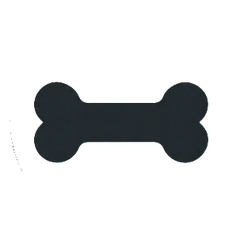
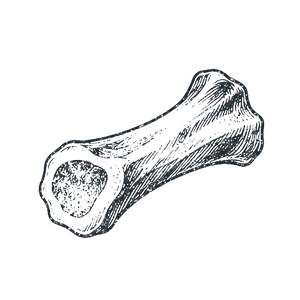
Dessins refaits avec ChatGPT
- Planche de découpe : bœuf gravé (style planche de boucher), zones recalées
- Stickers v2 : gravures, double filet, hachures à la main
- Pictos races et cuisson, traces de bottes

Claude-Session: https://claude.ai/code/session_0152vrq4n7nohigUcogz98yy

Changed region(s): [[0.1167, 0.2042, 0.9042, 0.8167]]

diff --git a/index.html b/index.html
@@ -230,14 +230,11 @@
   </header>
 
   <div class="cut__board">
-    <svg class="cow" id="cow" viewBox="70 50 500 285" role="group" aria-label="Schéma de découpe du bœuf">
-      <defs><clipPath id="cowClip"><path d="M210 70 Q330 64 450 72 L472 66 L520 76 Q536 82 540 96 L544 122 Q546 170 528 206 L522 250 L522 320 L500 320 L500 262 L490 232 L470 208 Q456 220 436 224 Q380 238 300 238 L254 234 L240 252 L236 320 L212 320 L210 258 L204 236 L188 214 Q172 198 166 186 L152 162 L130 170 L104 180 Q90 182 86 170 L86 152 L102 122 L116 104 L132 96 L160 92 Z"/></clipPath></defs>
-      <path class="cow__far" d="M262 230 L282 230 L280 316 L262 316 Z M466 206 L486 228 L488 316 L470 316 L470 262 Z"/>
-      <path class="cow__part cow__tail" data-cut="queue" tabindex="0" d="M520 78 Q548 92 552 150 L554 226 L546 248 L562 248 L560 226 L558 148 Q552 88 524 74 Z"/>
-      <g clip-path="url(#cowClip)" id="cowCuts"><path class="cow__part" data-cut="joue" tabindex="0" d="M0 0 L154 0 L154 200 L0 200 Z"/><path class="cow__part" data-cut="collier" tabindex="0" d="M154 0 L214 0 L208 178 L176 200 L154 172 Z"/><path class="cow__part" data-cut="basses" tabindex="0" d="M214 0 L276 0 L276 150 L210 150 Z"/><path class="cow__part" data-cut="cote" tabindex="0" d="M276 0 L336 0 L336 150 L276 150 Z"/><path class="cow__part" data-cut="fauxfilet" tabindex="0" d="M336 0 L430 0 L430 112 L336 112 Z"/><path class="cow__part" data-cut="filet" tabindex="0" d="M336 112 L430 112 L430 150 L336 150 Z"/><path class="cow__part" data-cut="rumsteck" tabindex="0" d="M430 0 L484 0 L484 156 L430 150 Z"/><path class="cow__part" data-cut="cuisse" tabindex="0" d="M484 0 L600 0 L600 250 L524 250 L472 208 L470 168 L484 156 Z"/><path class="cow__part" data-cut="paleron" tabindex="0" d="M210 150 L276 150 L276 250 L236 250 L208 178 Z"/><path class="cow__part" data-cut="poitrine" tabindex="0" d="M154 172 L176 200 L208 178 L236 250 L200 252 L150 230 Z"/><path class="cow__part" data-cut="platcotes" tabindex="0" d="M276 150 L372 150 L372 250 L276 250 Z"/><path class="cow__part" data-cut="bavette" tabindex="0" d="M372 150 L430 150 L484 156 L470 168 L472 208 L440 250 L372 250 Z"/><path class="cow__part" data-cut="jarret" tabindex="0" d="M190 250 L250 250 L250 340 L190 340 Z M472 208 L524 250 L530 340 L480 340 Z"/></g>
-      <path class="cow__outline" d="M210 70 Q330 64 450 72 L472 66 L520 76 Q536 82 540 96 L544 122 Q546 170 528 206 L522 250 L522 320 L500 320 L500 262 L490 232 L470 208 Q456 220 436 224 Q380 238 300 238 L254 234 L240 252 L236 320 L212 320 L210 258 L204 236 L188 214 Q172 198 166 186 L152 162 L130 170 L104 180 Q90 182 86 170 L86 152 L102 122 L116 104 L132 96 L160 92 Z"/>
-      <path class="cow__ink" d="M128 100 Q110 92 108 74 Q118 84 136 96 Z M146 100 L174 98 L156 114 Z"/>
-      <circle cx="112" cy="128" r="3.5" class="cow__eye"/>
+    <svg class="cow" id="cow" viewBox="0 0 1408 938" role="group" aria-label="Planche de découpe du bœuf">
+      <defs><clipPath id="cowClip"><path d="M108 41 L95 64 L92 77 L92 94 L99 114 L110 129 L110 137 L93 158 L86 171 L82 185 L82 202 L78 210 L58 235 L40 262 L24 276 L14 288 L12 293 L12 305 L15 312 L16 325 L24 336 L32 339 L41 348 L49 352 L62 356 L75 356 L88 352 L114 358 L130 372 L142 377 L153 379 L171 390 L179 392 L202 390 L210 392 L224 401 L231 408 L241 427 L262 452 L271 472 L276 498 L282 516 L293 535 L308 553 L318 576 L330 590 L351 602 L363 614 L375 660 L374 703 L378 719 L387 737 L388 770 L384 794 L376 816 L374 834 L369 843 L361 852 L357 864 L340 889 L340 895 L357 900 L393 900 L408 897 L419 899 L426 908 L426 916 L428 918 L447 923 L489 922 L504 919 L511 914 L520 897 L518 872 L525 863 L531 862 L534 859 L536 853 L525 793 L524 769 L527 741 L529 733 L541 709 L543 685 L555 656 L560 631 L568 621 L609 604 L643 597 L726 598 L739 600 L795 602 L852 609 L895 609 L930 600 L979 581 L1017 568 L1035 564 L1043 566 L1049 572 L1058 594 L1068 630 L1088 668 L1089 686 L1098 718 L1099 734 L1094 772 L1087 797 L1076 822 L1073 838 L1056 860 L1052 872 L1034 898 L1034 902 L1048 907 L1060 908 L1099 907 L1109 905 L1122 886 L1122 869 L1124 865 L1129 860 L1140 857 L1144 851 L1146 809 L1157 761 L1166 734 L1176 714 L1183 694 L1188 689 L1196 687 L1204 689 L1210 695 L1219 714 L1233 735 L1242 767 L1245 791 L1245 812 L1241 834 L1242 851 L1238 861 L1228 876 L1227 885 L1209 918 L1213 921 L1232 925 L1279 923 L1293 918 L1303 898 L1303 892 L1299 882 L1299 873 L1306 864 L1315 862 L1318 859 L1320 852 L1318 841 L1315 836 L1315 825 L1310 808 L1306 780 L1305 734 L1307 713 L1314 704 L1322 702 L1330 704 L1335 709 L1337 713 L1337 726 L1339 733 L1354 757 L1354 767 L1352 772 L1364 757 L1365 751 L1373 740 L1377 731 L1379 704 L1383 694 L1389 687 L1393 673 L1395 621 L1387 598 L1387 550 L1383 538 L1383 531 L1379 523 L1379 517 L1371 496 L1366 472 L1365 440 L1367 422 L1367 386 L1358 321 L1348 285 L1336 254 L1325 232 L1309 207 L1286 183 L1267 171 L1251 164 L1233 159 L1210 157 L1195 159 L1146 159 L1099 166 L1048 169 L1023 173 L993 181 L943 191 L891 197 L836 199 L763 194 L655 175 L583 150 L552 143 L527 141 L515 138 L468 112 L434 102 L419 100 L383 101 L356 107 L316 121 L308 119 L301 110 L301 86 L299 78 L286 51 L264 28 L236 12 L229 12 L227 16 L251 44 L258 58 L262 74 L262 86 L259 92 L254 97 L246 99 L233 96 L222 91 L206 91 L187 85 L177 86 L168 92 L145 97 L134 95 L123 81 L121 64 L126 46 L141 23 L140 19 L135 19 L126 24Z"/></clipPath></defs>
+      <path class="cow__base" d="M108 41 L95 64 L92 77 L92 94 L99 114 L110 129 L110 137 L93 158 L86 171 L82 185 L82 202 L78 210 L58 235 L40 262 L24 276 L14 288 L12 293 L12 305 L15 312 L16 325 L24 336 L32 339 L41 348 L49 352 L62 356 L75 356 L88 352 L114 358 L130 372 L142 377 L153 379 L171 390 L179 392 L202 390 L210 392 L224 401 L231 408 L241 427 L262 452 L271 472 L276 498 L282 516 L293 535 L308 553 L318 576 L330 590 L351 602 L363 614 L375 660 L374 703 L378 719 L387 737 L388 770 L384 794 L376 816 L374 834 L369 843 L361 852 L357 864 L340 889 L340 895 L357 900 L393 900 L408 897 L419 899 L426 908 L426 916 L428 918 L447 923 L489 922 L504 919 L511 914 L520 897 L518 872 L525 863 L531 862 L534 859 L536 853 L525 793 L524 769 L527 741 L529 733 L541 709 L543 685 L555 656 L560 631 L568 621 L609 604 L643 597 L726 598 L739 600 L795 602 L852 609 L895 609 L930 600 L979 581 L1017 568 L1035 564 L1043 566 L1049 572 L1058 594 L1068 630 L1088 668 L1089 686 L1098 718 L1099 734 L1094 772 L1087 797 L1076 822 L1073 838 L1056 860 L1052 872 L1034 898 L1034 902 L1048 907 L1060 908 L1099 907 L1109 905 L1122 886 L1122 869 L1124 865 L1129 860 L1140 857 L1144 851 L1146 809 L1157 761 L1166 734 L1176 714 L1183 694 L1188 689 L1196 687 L1204 689 L1210 695 L1219 714 L1233 735 L1242 767 L1245 791 L1245 812 L1241 834 L1242 851 L1238 861 L1228 876 L1227 885 L1209 918 L1213 921 L1232 925 L1279 923 L1293 918 L1303 898 L1303 892 L1299 882 L1299 873 L1306 864 L1315 862 L1318 859 L1320 852 L1318 841 L1315 836 L1315 825 L1310 808 L1306 780 L1305 734 L1307 713 L1314 704 L1322 702 L1330 704 L1335 709 L1337 713 L1337 726 L1339 733 L1354 757 L1354 767 L1352 772 L1364 757 L1365 751 L1373 740 L1377 731 L1379 704 L1383 694 L1389 687 L1393 673 L1395 621 L1387 598 L1387 550 L1383 538 L1383 531 L1379 523 L1379 517 L1371 496 L1366 472 L1365 440 L1367 422 L1367 386 L1358 321 L1348 285 L1336 254 L1325 232 L1309 207 L1286 183 L1267 171 L1251 164 L1233 159 L1210 157 L1195 159 L1146 159 L1099 166 L1048 169 L1023 173 L993 181 L943 191 L891 197 L836 199 L763 194 L655 175 L583 150 L552 143 L527 141 L515 138 L468 112 L434 102 L419 100 L383 101 L356 107 L316 121 L308 119 L301 110 L301 86 L299 78 L286 51 L264 28 L236 12 L229 12 L227 16 L251 44 L258 58 L262 74 L262 86 L259 92 L254 97 L246 99 L233 96 L222 91 L206 91 L187 85 L177 86 L168 92 L145 97 L134 95 L123 81 L121 64 L126 46 L141 23 L140 19 L135 19 L126 24Z"/>
+      <g clip-path="url(#cowClip)" id="cowCuts"><path class="cow__part" data-cut="joue" tabindex="0" d="M0 0 L292 0 L304 190 L334 400 L0 460 Z"/><path class="cow__part" data-cut="collier" tabindex="0" d="M292 0 L462 0 L470 310 L422 362 L334 400 L304 190 Z"/><path class="cow__part" data-cut="basses" tabindex="0" d="M462 0 L602 0 L602 360 L470 310 Z"/><path class="cow__part" data-cut="cote" tabindex="0" d="M602 0 L742 0 L742 360 L602 360 Z"/><path class="cow__part" data-cut="fauxfilet" tabindex="0" d="M742 0 L932 0 L932 292 L742 292 Z"/><path class="cow__part" data-cut="filet" tabindex="0" d="M742 292 L932 292 L932 362 L742 360 Z"/><path class="cow__part" data-cut="rumsteck" tabindex="0" d="M932 0 L1072 0 L1070 372 L932 362 Z"/><path class="cow__part" data-cut="cuisse" tabindex="0" d="M1072 0 L1306 0 L1302 300 L1300 640 L1060 640 L1040 560 L1070 372 Z"/><path class="cow__part" data-cut="paleron" tabindex="0" d="M470 310 L602 360 L602 560 L520 604 L440 560 L422 362 Z"/><path class="cow__part" data-cut="poitrine" tabindex="0" d="M334 400 L422 362 L440 560 L520 604 L560 660 L330 660 L300 500 Z"/><path class="cow__part" data-cut="platcotes" tabindex="0" d="M602 360 L800 360 L800 640 L560 640 L520 604 L602 560 Z"/><path class="cow__part" data-cut="bavette" tabindex="0" d="M800 360 L932 362 L1070 372 L1040 560 L1060 640 L800 640 Z"/><path class="cow__part" data-cut="jarret" tabindex="0" d="M300 660 L560 660 L560 940 L300 940 Z M1040 640 L1300 640 L1300 940 L1040 940 Z"/><path class="cow__part" data-cut="queue" tabindex="0" d="M1306 0 L1410 0 L1410 940 L1300 940 L1300 640 L1302 300 Z"/></g>
+      <image class="cow__ink" href="img/boeuf-gravure.webp" x="0" y="0" width="1408" height="938" preserveAspectRatio="none"/>
       <g class="cow__nums" id="cowNums"></g>
     </svg>
 

diff --git a/js/site.js b/js/site.js
@@ -58,20 +58,20 @@
     mijoter: { t: 'Mijoter', i: '<path d="M4 10h16v6a4 4 0 0 1-4 4H8a4 4 0 0 1-4-4zM2 10h2M20 10h2M10 6c0-1 1-1 1-2M14 6c0-1 1-1 1-2"/>' }
   };
   const CUTS = [
-    { id: 'joue', n: 'Joue', at: [122, 140], m: ['mijoter'], d: 'Un muscle qui travaille beaucoup, riche en collagène : il devient fondant après une longue cuisson.', tip: 'En daube, au vin rouge, trois heures à feu doux.' },
-    { id: 'collier', n: 'Collier', at: [183, 126], m: ['mijoter'], d: 'Une viande gélatineuse et goûteuse, faite pour les plats qui mijotent.', tip: 'Le secret d’un bourguignon qui se tient.' },
-    { id: 'basses', n: 'Basses côtes', at: [244, 112], m: ['griller', 'mijoter'], d: 'Bien persillées, entre le collier et la côte. Généreuses en goût.', tip: 'En tranche épaisse sur le gril, ou braisées.' },
-    { id: 'cote', n: 'Côte & entrecôte', at: [306, 112], m: ['griller'], d: 'La pièce reine, avec ou sans os. Chez nous, elle s’affine en cave avant d’arriver en vitrine.', tip: 'Sortez-la une heure avant, saisissez fort, laissez reposer autant que la cuisson.' },
-    { id: 'fauxfilet', n: 'Faux-filet', at: [383, 92], m: ['griller', 'rotir'], d: 'Tendre, avec son liseré de gras qui nourrit la viande pendant la cuisson.', tip: 'Commencez par le gras, côté poêle, puis saignant.' },
-    { id: 'filet', n: 'Filet', at: [383, 132], m: ['griller', 'rotir'], d: 'Le morceau le plus tendre : tournedos, chateaubriand, rôti de fête.', tip: 'Cuisson courte : il ne pardonne pas l’excès.' },
-    { id: 'rumsteck', n: 'Rumsteck', at: [457, 112], m: ['griller', 'rotir'], d: 'Tendre et goûteux, il donne pavés, aiguillette et rôtis.', tip: 'Au couteau, c’est le meilleur tartare.' },
-    { id: 'cuisse', n: 'Tranche & gîte à la noix', at: [514, 160], m: ['rotir', 'griller'], d: 'Les muscles de la cuisse : maigres et réguliers, pour rôtis, steaks et carpaccio.', tip: 'Le rôti du dimanche, à trancher fin.' },
-    { id: 'paleron', n: 'Paleron & macreuse', at: [242, 200], m: ['mijoter'], d: 'L’épaule : le paleron et son nerf central qui fond, la macreuse moelleuse.', tip: 'En pot-au-feu, la gelée du nerf fait la sauce.' },
-    { id: 'poitrine', n: 'Poitrine', at: [192, 222], m: ['mijoter'], d: 'Entrelardée et savoureuse, elle donne du corps aux bouillons.', tip: 'Indispensable dans un pot-au-feu.' },
-    { id: 'platcotes', n: 'Plat de côtes', at: [324, 200], m: ['mijoter'], d: 'De la viande et du gras sur l’os, pour les cuissons longues.', tip: 'Préparé la veille, il est encore meilleur.' },
-    { id: 'bavette', n: 'Bavette & flanchet', at: [415, 198], m: ['griller', 'mijoter'], d: 'Fibres longues et goût prononcé. La bavette se saisit, le flanchet se mijote.', tip: 'Bavette saignante, échalotes fondues, rien de plus.' },
-    { id: 'jarret', n: 'Jarret', at: [221, 290], m: ['mijoter'], d: 'Le gîte : très gélatineux, il donne un bouillon riche et nappant.', tip: 'Pour un pot-au-feu qui nappe la cuillère.' },
-    { id: 'queue', n: 'Queue', at: [557, 196], m: ['mijoter'], d: 'Petite pièce, grand goût : longue cuisson, bouillon puissant.', tip: 'En parmentier de queue de bœuf.' }
+    { id: 'joue', n: 'Joue', at: [150, 262], m: ['mijoter'], d: 'Un muscle qui travaille beaucoup, riche en collagène : il devient fondant après une longue cuisson.', tip: 'En daube, au vin rouge, trois heures à feu doux.' },
+    { id: 'collier', n: 'Collier', at: [388, 262], m: ['mijoter'], d: 'Une viande gélatineuse et goûteuse, faite pour les plats qui mijotent.', tip: 'Le secret d’un bourguignon qui se tient.' },
+    { id: 'basses', n: 'Basses côtes', at: [532, 268], m: ['griller', 'mijoter'], d: 'Bien persillées, entre le collier et la côte. Généreuses en goût.', tip: 'En tranche épaisse sur le gril, ou braisées.' },
+    { id: 'cote', n: 'Côte & entrecôte', at: [672, 276], m: ['griller'], d: 'La pièce reine, avec ou sans os. Chez nous, elle s’affine en cave avant d’arriver en vitrine.', tip: 'Sortez-la une heure avant, saisissez fort, laissez reposer autant que la cuisson.' },
+    { id: 'fauxfilet', n: 'Faux-filet', at: [837, 252], m: ['griller', 'rotir'], d: 'Tendre, avec son liseré de gras qui nourrit la viande pendant la cuisson.', tip: 'Commencez par le gras, côté poêle, puis saignant.' },
+    { id: 'filet', n: 'Filet', at: [837, 328], m: ['griller', 'rotir'], d: 'Le morceau le plus tendre : tournedos, chateaubriand, rôti de fête.', tip: 'Cuisson courte : il ne pardonne pas l’excès.' },
+    { id: 'rumsteck', n: 'Rumsteck', at: [1000, 280], m: ['griller', 'rotir'], d: 'Tendre et goûteux, il donne pavés, aiguillette et rôtis.', tip: 'Au couteau, c’est le meilleur tartare.' },
+    { id: 'cuisse', n: 'Tranche & gîte à la noix', at: [1185, 420], m: ['rotir', 'griller'], d: 'Les muscles de la cuisse : maigres et réguliers, pour rôtis, steaks et carpaccio.', tip: 'Le rôti du dimanche, à trancher fin.' },
+    { id: 'paleron', n: 'Paleron & macreuse', at: [520, 460], m: ['mijoter'], d: 'L’épaule : le paleron et son nerf central qui fond, la macreuse moelleuse.', tip: 'En pot-au-feu, la gelée du nerf fait la sauce.' },
+    { id: 'poitrine', n: 'Poitrine', at: [392, 545], m: ['mijoter'], d: 'Entrelardée et savoureuse, elle donne du corps aux bouillons.', tip: 'Indispensable dans un pot-au-feu.' },
+    { id: 'platcotes', n: 'Plat de côtes', at: [690, 500], m: ['mijoter'], d: 'De la viande et du gras sur l’os, pour les cuissons longues.', tip: 'Préparé la veille, il est encore meilleur.' },
+    { id: 'bavette', n: 'Bavette & flanchet', at: [930, 505], m: ['griller', 'mijoter'], d: 'Fibres longues et goût prononcé. La bavette se saisit, le flanchet se mijote.', tip: 'Bavette saignante, échalotes fondues, rien de plus.' },
+    { id: 'jarret', n: 'Jarret', at: [455, 770], m: ['mijoter'], d: 'Le gîte : très gélatineux, il donne un bouillon riche et nappant.', tip: 'Pour un pot-au-feu qui nappe la cuillère.' },
+    { id: 'queue', n: 'Queue', at: [1352, 560], m: ['mijoter'], d: 'Petite pièce, grand goût : longue cuisson, bouillon puissant.', tip: 'En parmentier de queue de bœuf.' }
   ];
 
   const FEAST = [
@@ -387,7 +387,7 @@
     BREEDS.forEach((b, i) => {
       const li = document.createElement('article');
       li.className = 'breed'; li.dataset.i = i;
-      li.innerHTML = `<div class="breed__top"><span class="breed__kind"><svg viewBox="0 0 32 32" aria-hidden="true">${ICONS[b.k]}</svg>${b.kind}</span><span class="breed__idx">${String(i + 1).padStart(2, '0')}/${BREEDS.length}</span></div>
+      li.innerHTML = `<div class="breed__top"><span class="breed__kind"><i class="ico" style="-webkit-mask-image:url(img/ic-${b.k}.png);mask-image:url(img/ic-${b.k}.png)" aria-hidden="true"></i>${b.kind}</span><span class="breed__idx">${String(i + 1).padStart(2, '0')}/${BREEDS.length}</span></div>
         <h3>${b.name}</h3><p class="breed__where">${b.where}</p><p>${b.txt}</p>`;
       btrack.appendChild(li);
       const dot = document.createElement('button'); dot.type = 'button'; dot.setAttribute('aria-label', b.name); dotsEl.appendChild(dot);
@@ -471,7 +471,7 @@
     const nums = $('#cowNums'), chips = $('#cutChips'), tag = $('#cutTag');
     CUTS.forEach((c, i) => {
       const g = document.createElementNS(NS, 'g'); g.dataset.cut = c.id;
-      g.innerHTML = `<circle cx="${c.at[0]}" cy="${c.at[1]}" r="8.5"/><text x="${c.at[0]}" y="${c.at[1]}">${i + 1}</text>`;
+      g.innerHTML = `<circle cx="${c.at[0]}" cy="${c.at[1]}" r="35"/><text x="${c.at[0]}" y="${c.at[1]}">${i + 1}</text>`;
       nums.appendChild(g);
       const b = document.createElement('button');
       b.type = 'button'; b.className = 'chip'; b.setAttribute('role', 'tab'); b.dataset.cut = c.id;
@@ -495,7 +495,7 @@
       const fill = () => {
         $('[data-f="num"]', tag).textContent = `N° ${String(i + 1).padStart(2, '0')} — bœuf`;
         $('[data-f="name"]', tag).textContent = c.n;
-        $('[data-f="modes"]', tag).innerHTML = c.m.map(k => `<li><svg viewBox="0 0 24 24" aria-hidden="true">${MODES[k].i}</svg>${MODES[k].t}</li>`).join('');
+        $('[data-f="modes"]', tag).innerHTML = c.m.map(k => `<li><i class="ico" style="-webkit-mask-image:url(img/ic-${k}.png);mask-image:url(img/ic-${k}.png)" aria-hidden="true"></i>${MODES[k].t}</li>`).join('');
         $('[data-f="desc"]', tag).textContent = c.d;
         $('[data-f="tip"]', tag).textContent = c.tip;
       };
@@ -628,11 +628,9 @@
         const side = i % 2 ? 1 : -1;
         const x = 29 + side * 7 + Math.sin(y / 120) * 6;
         const a = 180 + Math.cos(y / 120) * 9 + side * 4;
-        const s = document.createElementNS(NS, 'svg');
-        s.setAttribute('class', 'boot'); s.setAttribute('viewBox', '0 0 40 100');
-        s.innerHTML = '<use href="#boot"/>';
+        const s = document.createElement('i');
+        s.className = 'boot'; s.style.setProperty('--sx', side > 0 ? -1 : 1);
         s.style.left = x + 'px'; s.style.top = y + 'px'; s.style.setProperty('--a', a + 'deg');
-        if (side > 0) s.style.transform = undefined;
         prints.appendChild(s); boots.push({ el: s, y });
       }
       paint();

diff --git a/css/site.css b/css/site.css
@@ -329,7 +329,7 @@ body:not(.is-open-site) .facade__copy>*{opacity:0;transform:translateY(18px)}
 .breed.on{opacity:1;transform:none}
 .breed__top{display:flex;align-items:center;justify-content:space-between;margin-bottom:12px}
 .breed__kind{display:flex;align-items:center;gap:8px;font-size:11px;letter-spacing:.2em;text-transform:uppercase;font-weight:500;color:var(--sage-ink)}
-.breed__kind svg{width:24px;height:24px;fill:none;stroke:var(--ink);stroke-width:1.5;stroke-linecap:round;stroke-linejoin:round}
+.ico{display:inline-block;flex:none;width:24px;height:24px;background:var(--ink);-webkit-mask-position:center;mask-position:center;-webkit-mask-size:contain;mask-size:contain;-webkit-mask-repeat:no-repeat;mask-repeat:no-repeat}
 .breed__idx{font-family:var(--mono);font-size:12px;color:var(--kraft-deep)}
 .breed h3{font-size:26px;letter-spacing:-.02em;line-height:1.05;margin-bottom:6px;font-weight:400}
 .breed__where{font-size:13px;letter-spacing:.04em;color:var(--kraft-deep);font-weight:500;margin-bottom:8px}
@@ -346,19 +346,16 @@ body:not(.is-open-site) .facade__copy>*{opacity:0;transform:translateY(18px)}
    ========================================================== */
 .cut{background:var(--paper)}
 .cut__board{display:grid;gap:18px}
-.cow{width:100%;height:auto;overflow:visible;margin:0 -4px}
-.cow__far{fill:#C9CFC6}
-.cow__part{fill:#FBF8F2;stroke:var(--ink);stroke-width:.9;cursor:pointer;transition:fill .35s;-webkit-tap-highlight-color:transparent;outline:none}
-.cow__part:hover{fill:var(--kraft-light)}
-.cow__part.on{fill:url(#hatch-kraft)}
-.cow__tail{fill:var(--ink)}
-.cow__tail.on{fill:var(--kraft-deep)}
-.cow__outline{fill:none;stroke:var(--ink);stroke-width:2.6;stroke-linejoin:round;pointer-events:none}
-.cow__ink,.cow__eye{fill:var(--ink);pointer-events:none}
+.cow{width:100%;height:auto;overflow:visible;display:block}
+.cow__base{fill:#FBF8F2}
+.cow__part{fill:rgba(205,175,132,0);stroke:rgba(30,39,44,.34);stroke-width:3;stroke-dasharray:12 9;cursor:pointer;transition:fill .35s,stroke .35s;-webkit-tap-highlight-color:transparent;outline:none}
+.cow__part:hover{fill:rgba(205,175,132,.22)}
+.cow__part.on{fill:rgba(205,175,132,.62);stroke:var(--red);stroke-dasharray:none;stroke-width:5}
+.cow__ink{pointer-events:none}
 .cow__nums g{pointer-events:none}
-.cow__nums circle{fill:var(--ink);transition:fill .3s,r .3s}
-.cow__nums text{font:600 8px var(--mono);fill:var(--paper);text-anchor:middle;dominant-baseline:central}
-.cow__nums g.on circle{fill:var(--red);r:10.5}
+.cow__nums circle{fill:var(--ink);stroke:#FBF8F2;stroke-width:5;transition:fill .3s,r .3s}
+.cow__nums text{font:600 32px var(--mono);fill:var(--paper);text-anchor:middle;dominant-baseline:central}
+.cow__nums g.on circle{fill:var(--red);r:42}
 
 .cut__chips{display:flex;gap:8px;overflow-x:auto;margin:0 calc(var(--pad) * -1);padding:4px var(--pad) 8px;scrollbar-width:none;scroll-snap-type:x proximity}
 .cut__chips::-webkit-scrollbar{display:none}
@@ -377,7 +374,7 @@ body:not(.is-open-site) .facade__copy>*{opacity:0;transform:translateY(18px)}
 .tag__name{font-size:30px;line-height:1.05;letter-spacing:-.02em;font-weight:400;margin-bottom:14px}
 .tag__modes{display:flex;flex-wrap:wrap;gap:6px;margin-bottom:14px}
 .tag__modes li{display:flex;align-items:center;gap:6px;height:30px;padding:0 11px 0 8px;border-radius:999px;background:rgba(251,248,242,.85);font-size:13px;font-weight:500}
-.tag__modes svg{width:17px;height:17px;fill:none;stroke:var(--ink);stroke-width:1.6;stroke-linecap:round;stroke-linejoin:round}
+.tag__modes .ico{width:19px;height:19px}
 .tag__desc{font-size:15.5px;line-height:1.5;color:#3d3628;margin-bottom:14px}
 .tag__tip{display:grid;gap:2px;padding-top:12px;border-top:1px solid rgba(60,40,15,.2);font-family:var(--hand);font-size:22px;line-height:1.1;color:#3d3628}
 .tag__tip span:first-child{font-family:var(--sans);font-size:10.5px;letter-spacing:.2em;text-transform:uppercase;font-weight:600;color:var(--kraft-deep)}
@@ -484,8 +481,8 @@ body:not(.is-open-site) .facade__copy>*{opacity:0;transform:translateY(18px)}
 
 .trail{position:relative;padding-left:66px}
 .trail__prints{position:absolute;left:0;top:0;bottom:0;width:58px}
-.boot{position:absolute;width:14px;height:35px;fill:var(--ink);opacity:0;transform:translate(-50%,-50%) rotate(var(--a)) scale(1.35);transition:opacity .25s,transform .45s cubic-bezier(.3,1.5,.5,1)}
-.boot.on{opacity:.82;transform:translate(-50%,-50%) rotate(var(--a)) scale(1)}
+.boot{position:absolute;width:34px;height:34px;background:var(--ink);-webkit-mask:url(../img/ic-botte.png) center/contain no-repeat;mask:url(../img/ic-botte.png) center/contain no-repeat;opacity:0;transform:translate(-50%,-50%) rotate(var(--a)) scaleX(var(--sx,1)) scale(1.35);transition:opacity .25s,transform .45s cubic-bezier(.3,1.5,.5,1)}
+.boot.on{opacity:.85;transform:translate(-50%,-50%) rotate(var(--a)) scaleX(var(--sx,1)) scale(1)}
 .trail__steps{display:grid;gap:44px;padding:6px 0 10px}
 .step{transition:opacity .6s var(--ease),transform .6s var(--ease);opacity:.22;transform:translateX(8px)}
 .step.on{opacity:1;transform:none}

diff --git a/src/index.src.html b/src/index.src.html
@@ -230,14 +230,11 @@
   </header>
 
   <div class="cut__board">
-    <svg class="cow" id="cow" viewBox="70 50 500 285" role="group" aria-label="Schéma de découpe du bœuf">
+    <svg class="cow" id="cow" viewBox="0 0 1408 938" role="group" aria-label="Planche de découpe du bœuf">
       <defs><clipPath id="cowClip"><path d="{{COW_BODY}}"/></clipPath></defs>
-      <path class="cow__far" d="M262 230 L282 230 L280 316 L262 316 Z M466 206 L486 228 L488 316 L470 316 L470 262 Z"/>
-      <path class="cow__part cow__tail" data-cut="queue" tabindex="0" d="M520 78 Q548 92 552 150 L554 226 L546 248 L562 248 L560 226 L558 148 Q552 88 524 74 Z"/>
+      <path class="cow__base" d="{{COW_BODY}}"/>
       <g clip-path="url(#cowClip)" id="cowCuts">{{COW_CUTS}}</g>
-      <path class="cow__outline" d="{{COW_BODY}}"/>
-      <path class="cow__ink" d="M128 100 Q110 92 108 74 Q118 84 136 96 Z M146 100 L174 98 L156 114 Z"/>
-      <circle cx="112" cy="128" r="3.5" class="cow__eye"/>
+      <image class="cow__ink" href="img/boeuf-gravure.webp" x="0" y="0" width="1408" height="938" preserveAspectRatio="none"/>
       <g class="cow__nums" id="cowNums"></g>
     </svg>
 

diff --git a/build.py b/build.py
@@ -5,24 +5,24 @@ m = json.loads((ROOT / 'tools/data/map.json').read_text())
 west = json.loads((ROOT / 'tools/data/west.json').read_text())
 depts_svg = ''.join(f'<path class="map__dep" data-d="{k}" d="{v["d"]}"><title>{v["n"]}</title></path>' for k, v in west.items())
 
-COW_BODY = ("M210 70 Q330 64 450 72 L472 66 L520 76 Q536 82 540 96 L544 122 Q546 170 528 206 L522 250 L522 320 "
-            "L500 320 L500 262 L490 232 L470 208 Q456 220 436 224 Q380 238 300 238 L254 234 L240 252 L236 320 L212 320 "
-            "L210 258 L204 236 L188 214 Q172 198 166 186 L152 162 L130 170 L104 180 Q90 182 86 170 L86 152 L102 122 "
-            "L116 104 L132 96 L160 92 Z")
+# silhouette du bœuf (gravure ChatGPT détourée), repère 1408×938
+COW_BODY = (ROOT / 'tools/data/boeuf-silhouette.txt').read_text().strip()
+# zones de découpe, découpées ensuite par la silhouette
 CUTS = {
- 'joue':"M0 0 L154 0 L154 200 L0 200 Z",
- 'collier':"M154 0 L214 0 L208 178 L176 200 L154 172 Z",
- 'basses':"M214 0 L276 0 L276 150 L210 150 Z",
- 'cote':"M276 0 L336 0 L336 150 L276 150 Z",
- 'fauxfilet':"M336 0 L430 0 L430 112 L336 112 Z",
- 'filet':"M336 112 L430 112 L430 150 L336 150 Z",
- 'rumsteck':"M430 0 L484 0 L484 156 L430 150 Z",
- 'cuisse':"M484 0 L600 0 L600 250 L524 250 L472 208 L470 168 L484 156 Z",
- 'paleron':"M210 150 L276 150 L276 250 L236 250 L208 178 Z",
- 'poitrine':"M154 172 L176 200 L208 178 L236 250 L200 252 L150 230 Z",
- 'platcotes':"M276 150 L372 150 L372 250 L276 250 Z",
- 'bavette':"M372 150 L430 150 L484 156 L470 168 L472 208 L440 250 L372 250 Z",
- 'jarret':"M190 250 L250 250 L250 340 L190 340 Z M472 208 L524 250 L530 340 L480 340 Z",
+ 'joue':      "M0 0 L292 0 L304 190 L334 400 L0 460 Z",
+ 'collier':   "M292 0 L462 0 L470 310 L422 362 L334 400 L304 190 Z",
+ 'basses':    "M462 0 L602 0 L602 360 L470 310 Z",
+ 'cote':      "M602 0 L742 0 L742 360 L602 360 Z",
+ 'fauxfilet': "M742 0 L932 0 L932 292 L742 292 Z",
+ 'filet':     "M742 292 L932 292 L932 362 L742 360 Z",
+ 'rumsteck':  "M932 0 L1072 0 L1070 372 L932 362 Z",
+ 'cuisse':    "M1072 0 L1306 0 L1302 300 L1300 640 L1060 640 L1040 560 L1070 372 Z",
+ 'paleron':   "M470 310 L602 360 L602 560 L520 604 L440 560 L422 362 Z",
+ 'poitrine':  "M334 400 L422 362 L440 560 L520 604 L560 660 L330 660 L300 500 Z",
+ 'platcotes': "M602 360 L800 360 L800 640 L560 640 L520 604 L602 560 Z",
+ 'bavette':   "M800 360 L932 362 L1070 372 L1040 560 L1060 640 L800 640 Z",
+ 'jarret':    "M300 660 L560 660 L560 940 L300 940 Z M1040 640 L1300 640 L1300 940 L1040 940 Z",
+ 'queue':     "M1306 0 L1410 0 L1410 940 L1300 940 L1300 640 L1302 300 Z",
 }
 cuts_svg = ''.join(f'<path class="cow__part" data-cut="{k}" tabindex="0" d="{d}"/>' for k, d in CUTS.items())
 
